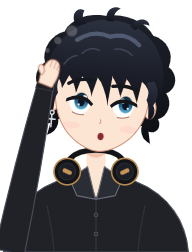
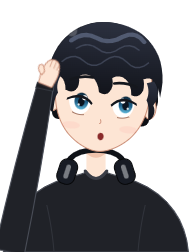
Gnosis looks as he did before the reference-picture redraw
The owner, 2026-10-19: "change the appearance of the mascot to original
version as he looks bad". The drawing and the bubble's frames are back
to 0cdb571 (black shirt, wavy hair, round headphones). His movements
were never changed by the redraw and stay as they are.

diff --git a/src/ui/Avatar.tsx b/src/ui/Avatar.tsx
@@ -105,7 +105,7 @@ function Eye({ cx, cy, side }: { cx: number; cy: number; side: 1 | -1 }) {
       </g>
       <path
         className="av-lash"
-        d={`M${cx - 22 * o},${cy + 2} Q${cx - 4 * o},${cy - 19} ${cx + 23 * o},${cy - 4} L${cx + 24 * o},${cy + 2} Q${cx - 3 * o},${cy - 11} ${cx - 19 * o},${cy + 6} Z`}
+        d={`M${cx - 21 * o},${cy + 1} Q${cx - 4 * o},${cy - 20} ${cx + 22 * o},${cy - 5} L${cx + 23 * o},${cy - 1} Q${cx - 3 * o},${cy - 14} ${cx - 19 * o},${cy + 4} Z`}
       />
       <path className="av-lower" d={`M${cx - 9 * o},${cy + 21} Q${cx + 2 * o},${cy + 23} ${cx + 12 * o},${cy + 18}`} />
     </g>
@@ -128,10 +128,9 @@ const Sparkle = ({ x, y, s = 1, d = 0 }: { x: number; y: number; s?: number; d?:
 function EarCup({ x, y, side }: { x: number; y: number; side: 1 | -1 }) {
   return (
     <g className="av-pin" style={{ transformOrigin: `${x}px ${y}px` }}>
-      <circle className="av-pin-glow" cx={x} cy={y} r={34} fill="url(#av-glow)" />
-      <circle className="av-hp-cup" cx={x} cy={y} r={22} />
-      <circle className="av-hp-inner" cx={x} cy={y} r={14} />
-      <rect className="av-hp-light" x={x - 8} y={y - 3.5} width={16} height={7} rx={3.5} transform={`rotate(${-25 * side} ${x} ${y})`} />
+      <circle className="av-pin-glow" cx={x} cy={y} r={30} fill="url(#av-glow)" />
+      <rect className="av-hp-cup" x={x - 15} y={y - 21} width={30} height={42} rx={13} transform={`rotate(${-18 * side} ${x} ${y})`} />
+      <rect className="av-hp-light" x={x - 4} y={y - 12} width={8} height={24} rx={4} transform={`rotate(${-18 * side} ${x} ${y})`} />
     </g>
   )
 }
@@ -251,7 +250,7 @@ export function Avatar() {
 
             {/* Behind everything: the back of his wavy hair, tilting with the head. */}
             <g className="av-tilt">
-              <path fill="url(#av-hair-back)" d="M96,176 C80,162 88,140 100,132 C92,110 108,84 128,78 C136,56 166,42 196,46 C226,38 262,50 276,72 C298,76 314,98 306,122 C322,132 324,156 306,166 C318,182 312,204 296,210 C304,224 294,236 282,232 L286,252 C272,246 268,234 270,224 L130,224 C132,234 128,246 114,252 L118,232 C106,236 96,224 104,210 C88,204 82,182 96,176 Z" />
+              <path fill="url(#av-hair-back)" d="M108,170 C100,100 146,56 200,56 C254,56 300,100 292,170 C296,186 290,200 280,208 C284,218 276,226 266,224 L134,224 C124,226 116,218 120,208 C110,200 104,186 108,170 Z" />
             </g>
 
             {/* Neck and his black shirt. */}
@@ -261,14 +260,8 @@ export function Avatar() {
               className="av-blazer"
               d="M46,440 C52,370 100,330 154,316 C168,312 180,310 184,306 Q200,326 216,306 C220,310 232,312 246,316 C300,330 348,370 354,440 Z"
             />
-            {/* The open neck of his button-up, its collar, the placket and buttons, and the folds where
-                the sleeves meet the body. */}
-            <path className="av-skin-plain" d="M184,304 L200,350 L216,304 Z" />
-            <path className="av-placket" d="M200,350 L200,440" />
-            <path className="av-collar-flap" d="M186,298 L156,318 L168,346 L199,352 Z" />
-            <path className="av-collar-flap" d="M214,298 L244,318 L232,346 L201,352 Z" />
-            <circle className="av-button" cx="200" cy="378" r="3.2" />
-            <circle className="av-button" cx="200" cy="410" r="3.2" />
+            {/* The crew neck's ribbed band, and the folds where the sleeves meet the body. */}
+            <path className="av-collar" d="M182,305 Q200,330 218,305" />
             <path className="av-seam" d="M118,362 C124,388 128,414 130,440 M282,362 C276,388 272,414 270,440" />
 
             {/* Headphones round his neck: the band behind, a cup on each side. They go on his ears while
@@ -305,7 +298,7 @@ export function Avatar() {
 
               <path className="av-nose" d="M200,219 Q203,224 199,226" />
 
-              <path className={mouth('smile')} d="M188,245 Q202,251 214,240" />
+              <path className={mouth('smile')} d="M188,243 Q200,253 212,243" />
               <g className={mouth('talk')}>
                 <path fill="#8a2b2b" d="M187,242 Q200,239 213,242 Q212,261 200,262 Q188,261 187,242 Z" />
                 <path fill="#ec7f80" d="M192,255 Q200,250 208,255 Q200,261 192,255 Z" />
@@ -322,35 +315,25 @@ export function Avatar() {
               {/* Wavy hair: a fringe of soft rounded waves swept to his right, and waves at the sides. */}
               <path
                 fill="url(#av-hair)"
-                d="M104,172 C94,104 146,52 204,52 C264,52 308,100 298,170 C294,160 290,154 285,150 L283,180 C278,166 272,156 264,150 L258,186 C252,168 246,156 238,148 L230,178 C226,164 220,154 214,146 L210,192 C204,172 198,158 190,150 L182,180 C178,166 172,156 164,150 L156,178 C152,164 148,156 142,150 L132,172 C130,162 126,156 120,152 C114,158 108,164 104,172 Z"
+                d="M108,176 C98,104 146,56 202,56 C262,56 308,102 296,174 C292,150 280,138 266,146 C272,166 262,180 248,174 C246,150 230,138 214,148 C220,168 208,182 194,174 C190,150 174,140 158,150 C164,170 152,182 138,174 C136,154 124,146 114,158 C111,164 109,170 108,176 Z"
               />
               <path fill="url(#av-hair)" d="M116,148 C104,162 108,178 114,188 C108,198 112,210 120,214 C122,200 120,190 126,180 C122,170 124,160 128,152 Z" />
               <path fill="url(#av-hair)" d="M284,148 C296,162 292,178 286,188 C292,198 288,210 280,214 C278,200 280,190 274,180 C278,170 276,160 272,152 Z" />
-              {/* Tufts on the crown, and strands catching the light. */}
-              <path fill="url(#av-hair)" d="M146,66 C134,48 146,34 158,40 C154,48 156,56 164,62 Z" />
-              <path fill="url(#av-hair)" d="M236,60 C248,42 266,44 268,56 C258,52 250,56 246,66 Z" />
-              <path fill="url(#av-hair)" d="M196,54 C192,36 206,26 218,32 C210,36 206,44 208,54 Z" />
-              <path className="av-shine-hair" d="M150,90 Q176,70 204,80 Q232,70 254,90" />
-              <path className="av-wave" d="M160,112 Q172,98 188,104 M214,100 Q230,96 244,108 M132,132 Q140,118 152,116" />
+              <path className="av-shine-hair" d="M140,92 Q160,74 182,84 Q204,94 226,78 Q246,66 262,84" />
+              <path className="av-wave" d="M128,128 Q146,110 164,124 Q182,138 200,120 Q218,104 236,120 Q254,136 272,118" />
+              <path className="av-wave" d="M150,104 Q168,90 186,102 Q204,114 222,98 Q238,86 254,98" />
 
               {/* The headphones, on his ears. */}
               <g className={fx('phones')}>
                 <path className="av-hp-band" d="M114,190 C108,92 292,92 286,190" />
-                <circle className="av-hp-cup" cx="114" cy="194" r="21" />
-                <circle className="av-hp-inner" cx="114" cy="194" r="13" />
-                <circle className="av-hp-cup" cx="286" cy="194" r="21" />
-                <circle className="av-hp-inner" cx="286" cy="194" r="13" />
-                <rect className="av-hp-light" x="107" y="190.5" width="14" height="7" rx="3.5" />
-                <rect className="av-hp-light" x="279" y="190.5" width="14" height="7" rx="3.5" />
+                <rect className="av-hp-cup" x="104" y="170" width="24" height="44" rx="11" />
+                <rect className="av-hp-cup" x="272" y="170" width="24" height="44" rx="11" />
+                <rect className="av-hp-light" x="112" y="182" width="7" height="20" rx="3.5" />
+                <rect className="av-hp-light" x="281" y="182" width="7" height="20" rx="3.5" />
               </g>
 
-              <path className="av-brow av-brow-l" d="M142,166 Q160,157 184,162" />
-              <path className="av-brow av-brow-r" d="M216,162 Q240,157 258,166" />
-
-              <g className="av-earring">
-                <circle cx="119" cy="214" r="3.2" />
-                <path d="M119,218 L119,238 M113,225 L125,225" />
-              </g>
+              <path className="av-brow av-brow-l" d="M144,160 Q162,153 182,157" />
+              <path className="av-brow av-brow-r" d="M218,157 Q238,153 256,160" />
 
               {/* Little extras that come and go with the pose. */}
               <path className={fx('sweat')} d="M281,146 C275,158 275,166 281,168 C287,166 287,158 281,146 Z" />

diff --git a/src/ui/avatar.css b/src/ui/avatar.css
@@ -236,16 +236,3 @@ html[data-cards='1'] .avatar-stage { transform: translate(-21vw, -11vh) scale(0.
   .avatar .av-tilt, .avatar .av-hand, .avatar .av-steam { animation: none !important }
 }
 .avatar .av-wave { fill: none; stroke: #4a5266; stroke-width: 2.4; stroke-linecap: round; opacity: 0.7 }
-
-/* From the owner's reference picture: a collared button-up, brass-trimmed headphones, a silver cross
-   earring, heavier brows. */
-.avatar .av-collar-flap { fill: #2a2d34; stroke: #6a6f7a; stroke-width: 1.8; stroke-linejoin: round }
-.avatar .av-placket { fill: none; stroke: #33363e; stroke-width: 2 }
-.avatar .av-button { fill: #2c2f36; stroke: #5a5f6a; stroke-width: 1 }
-.avatar .av-hp-cup { fill: #121418; stroke: #b98a4f; stroke-width: 2.6 }
-.avatar .av-hp-inner { fill: #1b1e24; stroke: #2a2d34; stroke-width: 1.5 }
-.avatar .av-hp-light { fill: #c99556; opacity: 1 }
-.avatar[data-pose="magic"] .av-hp-light { fill: color-mix(in srgb, var(--av-accent) 85%, white) }
-.avatar .av-hp-band { stroke: #121418 }
-.avatar .av-earring circle, .avatar .av-earring path { fill: none; stroke: #d4d8de; stroke-width: 2.6; stroke-linecap: round }
-.avatar .av-brow { stroke-width: 5.5 }
